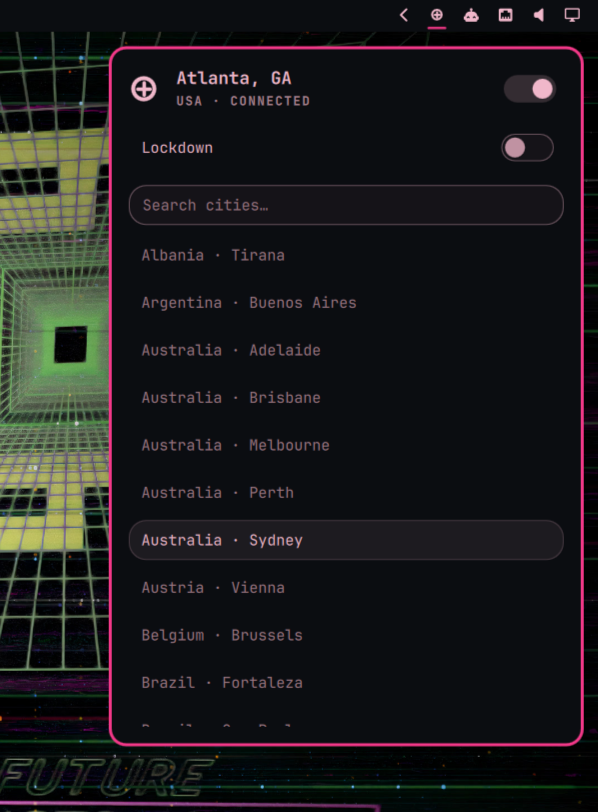
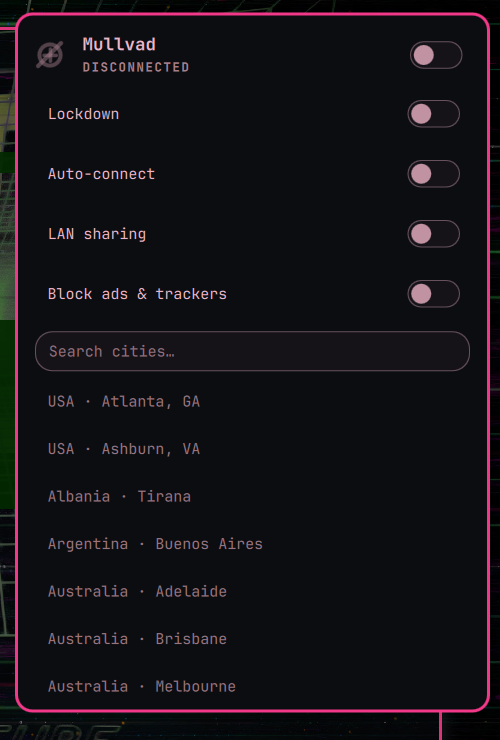
docs: declare expiryWarnDays in the manifest and refresh the preview
The settings schema now covers the expiry threshold, the plugin
descriptions mention the new switches, and the README preview shows
the current panel. Bump to 1.1.0 for the feature release.

diff --git a/README.md b/README.md
@@ -35,7 +35,7 @@ The ads & trackers switch drives Mullvad's DNS content blocking and re-sends you
 
 ## Staying informed
 
-You get a desktop notification when the tunnel drops without you asking it to — critical if your traffic is exposed, quieter if lockdown is already blocking everything — and when the Mullvad daemon stops. Nothing fires when you disconnect on purpose.
+You get a desktop notification when an established tunnel drops without you asking it to — critical if your traffic is exposed, quieter if lockdown is already blocking everything — and when the Mullvad daemon stops. Nothing fires when you disconnect on purpose.
 
 When your account is within 7 days of expiring, the panel shows an urgent line with a **Top up** link to mullvad.net/account, the bar icon shows its warning badge, and you get one notification per session. Set `expiryWarnDays` in the widget's bar entry to change the threshold.
 
